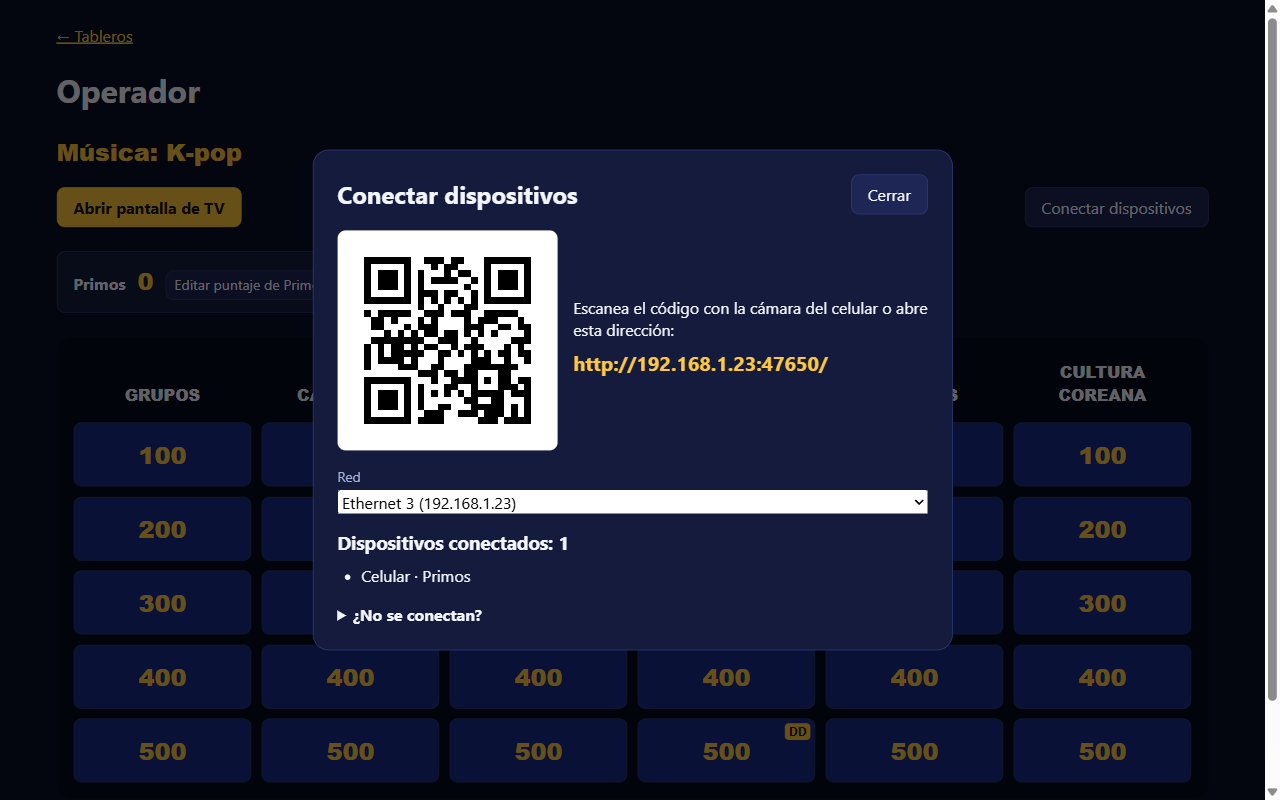
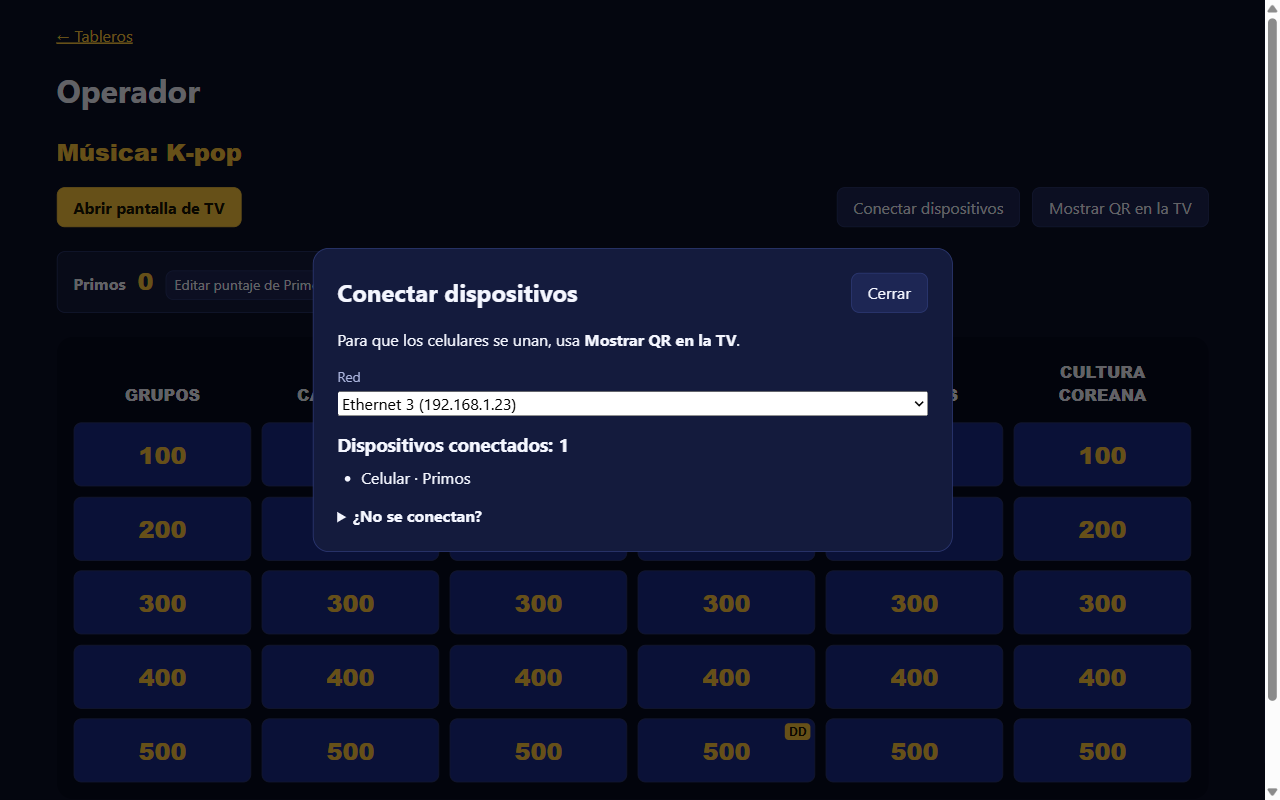
docs: el QR para unirse en la TV, en el README y las capturas

Changed region(s): [[0.2188, 0.1875, 0.7812, 0.8125], [0.8125, 0.25, 0.9375, 0.2812]]

diff --git a/screenshots/desktop.spec.ts b/screenshots/desktop.spec.ts
@@ -5,8 +5,8 @@ import { capture } from './capture';
 const LAN_PORT = 47650;
 
 /**
- * Capturas de la app de escritorio: el QR para conectar celulares, el celular como pulsador y la
- * TV con los pulsadores activos. Requiere `npm run build:desktop` antes.
+ * Capturas de la app de escritorio: el QR en la TV para conectar celulares, el panel de
+ * dispositivos, el celular como pulsador y la TV con los pulsadores activos. Requiere `npm run build:desktop` antes.
  */
 test('conectar celulares y pulsadores en la app de escritorio', async () => {
   const { app, operator } = await launchDesktop(desktopDirs(), { lanPort: LAN_PORT });
@@ -30,6 +30,15 @@ test('conectar celulares y pulsadores en la app de escritorio', async () => {
   const tv = await tvOpened;
   await tv.setViewportSize({ width: 1920, height: 1080 });
   await expect(tv.getByRole('table', { name: 'Tablero' })).toBeVisible();
+
+  // El QR se captura a 1280x720, la resolución más baja de la TV, para ver que siga nítido.
+  await operator.getByRole('button', { name: 'Mostrar QR en la TV' }).click();
+  await tv.setViewportSize({ width: 1280, height: 720 });
+  await expect(tv.getByTestId('lan-url')).toContainText(`:${LAN_PORT}/`);
+  await capture(tv, 'tv-qr');
+  await operator.getByRole('button', { name: 'Ocultar QR de la TV' }).click();
+  await expect(tv.getByRole('region', { name: 'Unirse con el celular' })).toHaveCount(0);
+  await tv.setViewportSize({ width: 1920, height: 1080 });
 
   const browser = await chromium.launch();
   try {

diff --git a/README.md b/README.md
@@ -150,12 +150,18 @@ ventana del operador se cierran la TV y la app.
 
 ### Conectar celulares
 
-En la vista de operador, **Conectar dispositivos** muestra una dirección y un código QR. Los
-celulares que estén en la **misma red wifi** lo escanean con la cámara y aparecen en la lista de
-dispositivos conectados. No se necesita internet. En un juego con pulsadores, la lista muestra
-el equipo de cada celular o **Sin equipo**.
+Los celulares se conectan en los juegos con pulsadores. En la vista de operador, **Mostrar QR en
+la TV** muestra en la TV un código QR y la dirección de conexión, en grande y sobre el tablero. Los
+celulares que estén en la **misma red wifi** lo escanean con la cámara. No se necesita internet.
+Cuando todos se unieron, **Ocultar QR de la TV** lo saca. Si alguien llega tarde, se puede volver a
+mostrar en cualquier momento.
 
-![Panel Conectar dispositivos con el código QR](docs/capturas/conectar-dispositivos.png)
+![TV con el código QR para unirse](docs/capturas/tv-qr.png)
+
+**Conectar dispositivos** queda para el operador: muestra la lista de celulares conectados con el
+equipo de cada uno (o **Sin equipo**), el selector de **Red** y la ayuda de conexión.
+
+![Panel Conectar dispositivos con los celulares conectados](docs/capturas/conectar-dispositivos.png)
 
 Si ningún celular logra conectarse:
 
@@ -176,8 +182,8 @@ Al configurar los equipos en la app de escritorio aparece la opción **Usar puls
 por defecto. Con ella, los celulares de los invitados funcionan como pulsadores. La versión web no
 tiene pulsadores: ahí el operador sigue sumando y restando a mano.
 
-1. **Unirse.** Cada invitado escanea el QR de **Conectar dispositivos** y elige su equipo en el
-   celular. Varios celulares pueden estar en el mismo equipo, y cualquiera de ellos pulsa por el
+1. **Unirse.** El operador presiona **Mostrar QR en la TV**, y cada invitado escanea el QR de la
+   TV y elige su equipo en el celular. Varios celulares pueden estar en el mismo equipo, y cualquiera de ellos pulsa por el
    equipo. **Cambiar de equipo** está siempre disponible en el celular. Si el celular se recarga o
    se reconecta, vuelve solo a su equipo.
 2. **Activar.** Con una pregunta abierta, el operador la lee y presiona **Activar pulsadores**. Recién

diff --git a/openspec/changes/qr-en-tv/tasks.md b/openspec/changes/qr-en-tv/tasks.md
@@ -20,4 +20,4 @@
 
 ## 5. Capturas
 
-- [ ] 5.1 Actualizar `screenshots/desktop.spec.ts` para capturar el panel "Conectar dispositivos" sin QR y la TV con el QR a 1280x720 (`docs/capturas/tv-qr.png`). Regenerar las capturas con `npm run screenshots` y actualizar el README donde describe la conexión de celulares. Verificar revisando que el QR de la TV se vea nítido en la captura y con el CI en verde en el PR.
+- [x] 5.1 Actualizar `screenshots/desktop.spec.ts` para capturar el panel "Conectar dispositivos" sin QR y la TV con el QR a 1280x720 (`docs/capturas/tv-qr.png`). Regenerar las capturas con `npm run screenshots` y actualizar el README donde describe la conexión de celulares. Verificar revisando que el QR de la TV se vea nítido en la captura y con el CI en verde en el PR.
